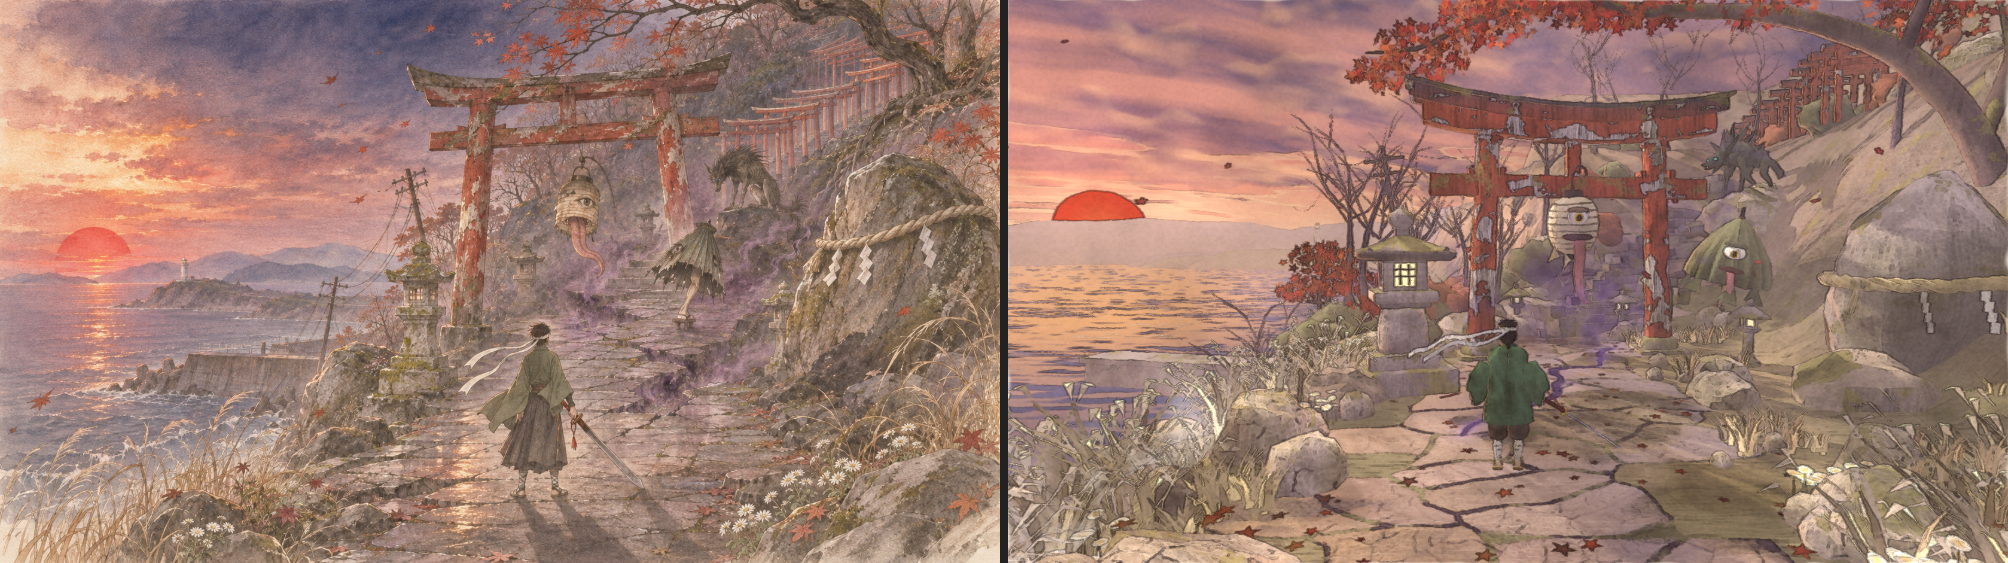
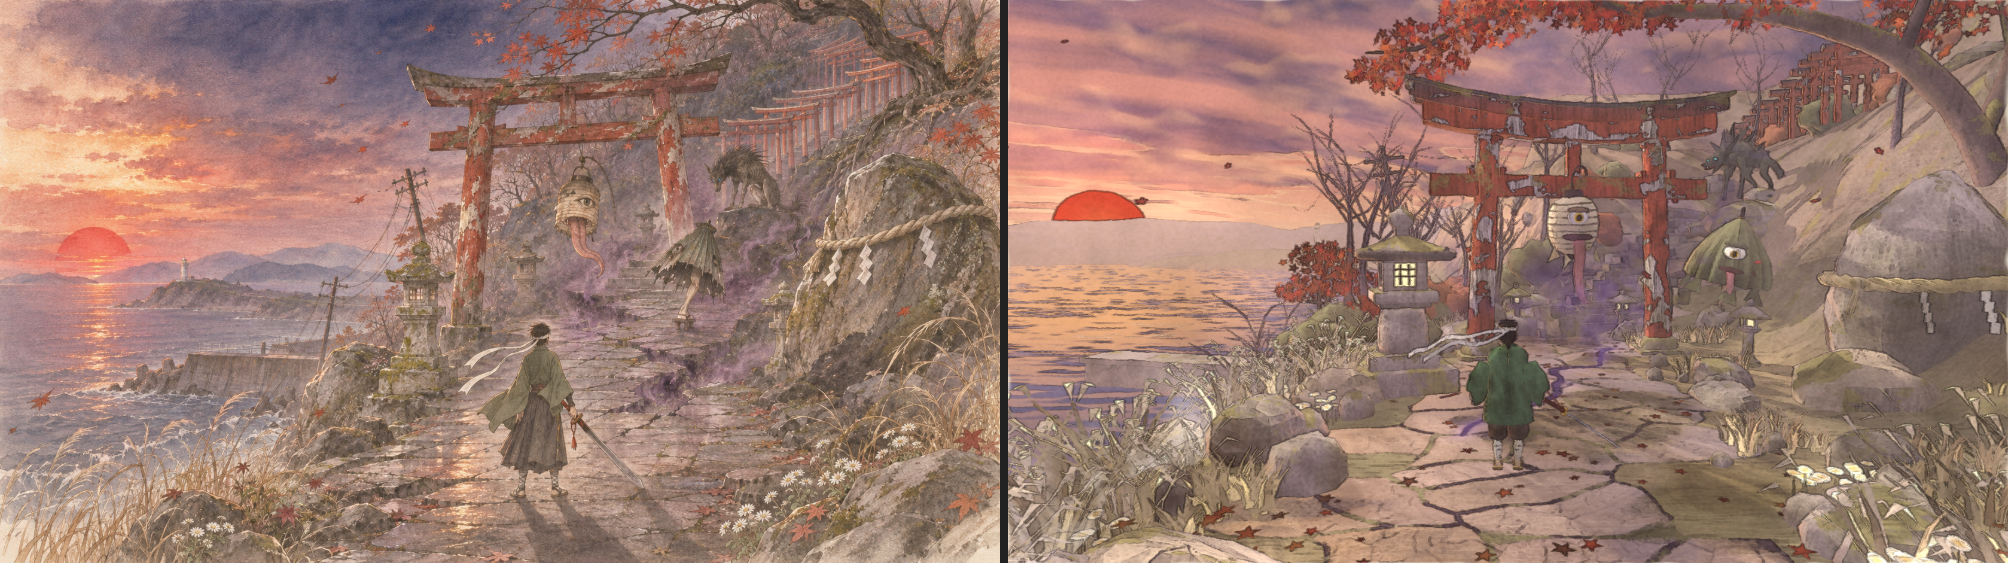
V5: 岩の作り直し1巡目（角ばった塊と板石、大きな平面の割れ、面ごとの明暗、灰色、苔を控えめに）。PROGRESS と比較画像
Claude-Session: https://claude.ai/code/session_0145zJV7Xr5fVskPT5oFxfXo

diff --git a/src/data/lookdev/models.js b/src/data/lookdev/models.js
@@ -226,12 +226,14 @@ export const models = {
     ],
   },
   // ---- 岩（小。散らす用） ----
-  rockA: { parts: [{ s: 'sph', r: [0.9, 0.6, 0.75], seg: 18, at: [0, 0.3, 0], col: 'rock', col2: 'rockHi', fx: [0.35, 0, 1, 0], chisel: [9, 0.3, 2], jitter: 0.1, jfreq: 2.2, seed: 2, joct: 4, flat: true }] },
-  rockB: { parts: [{ s: 'sph', r: [0.7, 0.75, 0.6], seg: 18, at: [0, 0.35, 0], col: 'rockDark', col2: 'rock', fx: [0.3, 0, 1, 0], chisel: [9, 0.32, 11], jitter: 0.09, jfreq: 2.4, seed: 11, joct: 4, flat: true }] },
-  rockC: { parts: [{ s: 'sph', r: [1.5, 0.85, 1.1], seg: 20, at: [0, 0.3, 0], col: 'rock', col2: 'rockHi', fx: [0.35, 0, 1, 0], chisel: [11, 0.3, 21], jitter: 0.14, jfreq: 1.6, seed: 21, joct: 4, flat: true }] },
-  rockShore: { parts: [{ s: 'sph', r: [1.3, 1.0, 1.1], seg: 18, at: [0, 0.2, 0], col: 'rockWet', col2: 'rock', fx: [0.15, 0, 1, 0], chisel: [10, 0.32, 31], jitter: 0.14, jfreq: 1.7, seed: 31, joct: 4, flat: true }] },
-  pebbleA: { parts: [{ s: 'sph', r: [0.9, 0.6, 0.75], seg: 9, at: [0, 0.3, 0], col: 'rock', col2: 'rockHi', fx: [0.35, 0, 1, 0], jitter: 0.28, jfreq: 1.3, seed: 2, joct: 4 }] },
-  pebbleB: { parts: [{ s: 'sph', r: [0.7, 0.75, 0.6], seg: 9, at: [0, 0.35, 0], col: 'rockDark', col2: 'rockHi', fx: [0.3, 0, 1, 0], jitter: 0.25, jfreq: 1.6, seed: 11, joct: 4 }] },
+  // 岩（V5 作り直し。参考：鳥居の左下・右下手前の岩）。角ばった塊と平たい板石、大きな平面の割れ（chisel を少なく深く）、面ごとの明暗（facetTint）、
+  // 灰色の地（網目の割れは弱く。石の度合い 0.35）、上の面に苔
+  rockA: { parts: [{ s: 'sph', r: [0.9, 0.55, 0.75], seg: 16, at: [0, 0.28, 0], col: 'rockDark', col2: 'stone', fx: [0.3, 0, 0.35, 0], chisel: [7, 0.4, 2], jitter: 0.05, jfreq: 2.2, seed: 2, joct: 4, flat: true, facetTint: [0.8, 0.5], ao: 0.5 }] },
+  rockB: { parts: [{ s: 'sph', r: [0.7, 0.8, 0.6], seg: 16, at: [0, 0.36, 0], col: 'rockDark', col2: 'stone', fx: [0.25, 0, 0.35, 0], chisel: [7, 0.42, 11], jitter: 0.05, jfreq: 2.4, seed: 11, joct: 4, flat: true, facetTint: [0.8, 0.5], ao: 0.5 }] },
+  rockC: { parts: [{ s: 'sph', r: [1.5, 0.62, 1.1], seg: 18, at: [0, 0.24, 0], col: 'rockDark', col2: 'stone', fx: [0.32, 0, 0.35, 0], chisel: [8, 0.38, 21], jitter: 0.07, jfreq: 1.6, seed: 21, joct: 4, flat: true, facetTint: [0.8, 0.5], ao: 0.5 }] },
+  rockShore: { parts: [{ s: 'sph', r: [1.3, 1.0, 1.1], seg: 16, at: [0, 0.2, 0], col: 'rockWet', col2: 'rock', fx: [0.15, 0, 0.35, 0], chisel: [8, 0.38, 31], jitter: 0.08, jfreq: 1.7, seed: 31, joct: 4, flat: true, facetTint: [0.7, 0.4], ao: 0.5 }] },
+  pebbleA: { parts: [{ s: 'sph', r: [0.9, 0.6, 0.75], seg: 9, at: [0, 0.3, 0], col: 'rockDark', col2: 'stone', fx: [0.35, 0, 0.35, 0], jitter: 0.28, jfreq: 1.3, seed: 2, joct: 4 }] },
+  pebbleB: { parts: [{ s: 'sph', r: [0.7, 0.75, 0.6], seg: 9, at: [0, 0.35, 0], col: 'rockDark', col2: 'stone', fx: [0.3, 0, 0.35, 0], jitter: 0.25, jfreq: 1.6, seed: 11, joct: 4 }] },
   // ---- 茂み（枯れかけの低木・紅葉の残る低木） ----
   bush: { parts: [
     { s: 'sph', r: [0.9, 0.6, 0.8], seg: 12, at: [0, 0.45, 0], col: 'bushGreen', col2: 'bushGreenHi', jitter: 0.45, jfreq: 1.6, joct: 4, seed: 41 },

diff --git a/src/data/lookdev/scene.js b/src/data/lookdev/scene.js
@@ -415,6 +415,10 @@ export const scene = {
       hero: { all: [0.88, 1.28], head: [1.56, 0.26], body: [1.02, 0.72], legs: [0.35, 0.45] },
       lanternBig: { all: [1.5, 2.35], top: [2.3, 0.85] },
       iwakura: { all: [2.1, 3.6], rope: [2.5, 1.6] },
+      rockA: { all: [0.35, 1.1] },
+      rockB: { all: [0.35, 0.95] },
+      rockC: { all: [0.35, 1.6] },
+      rockShore: { all: [0.25, 1.5] },
     },
   },
 
